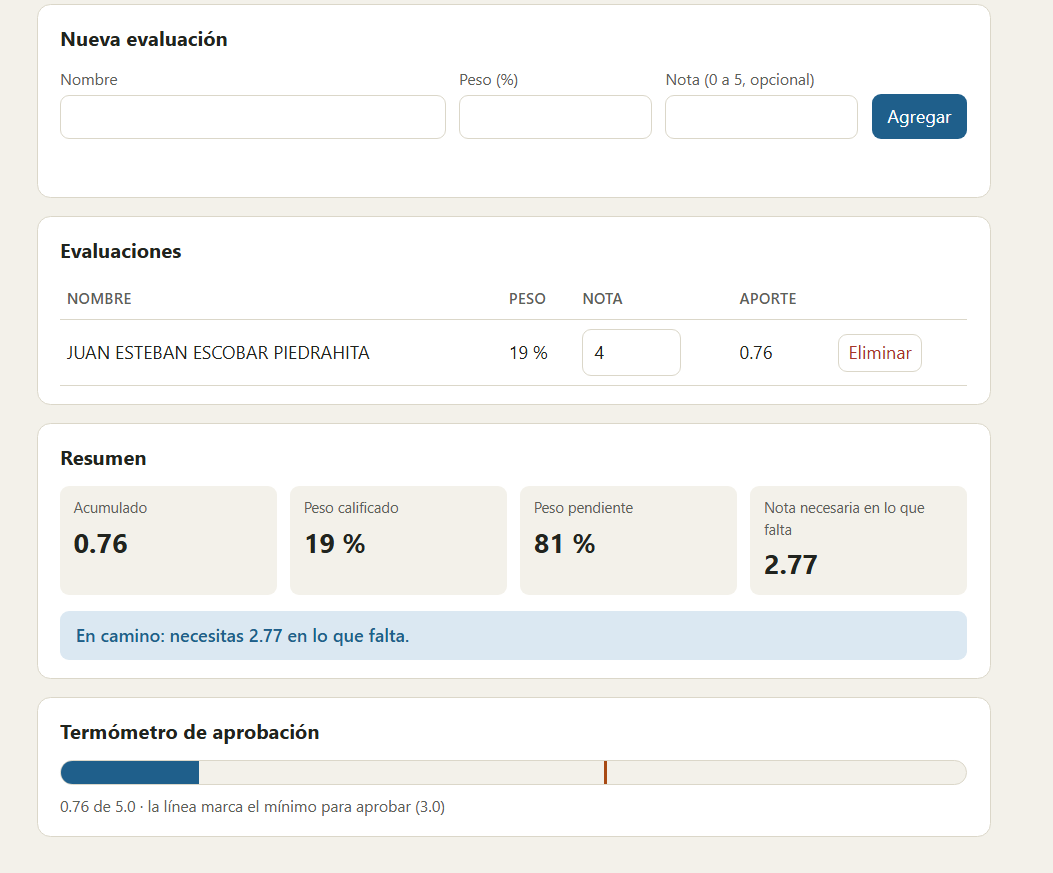
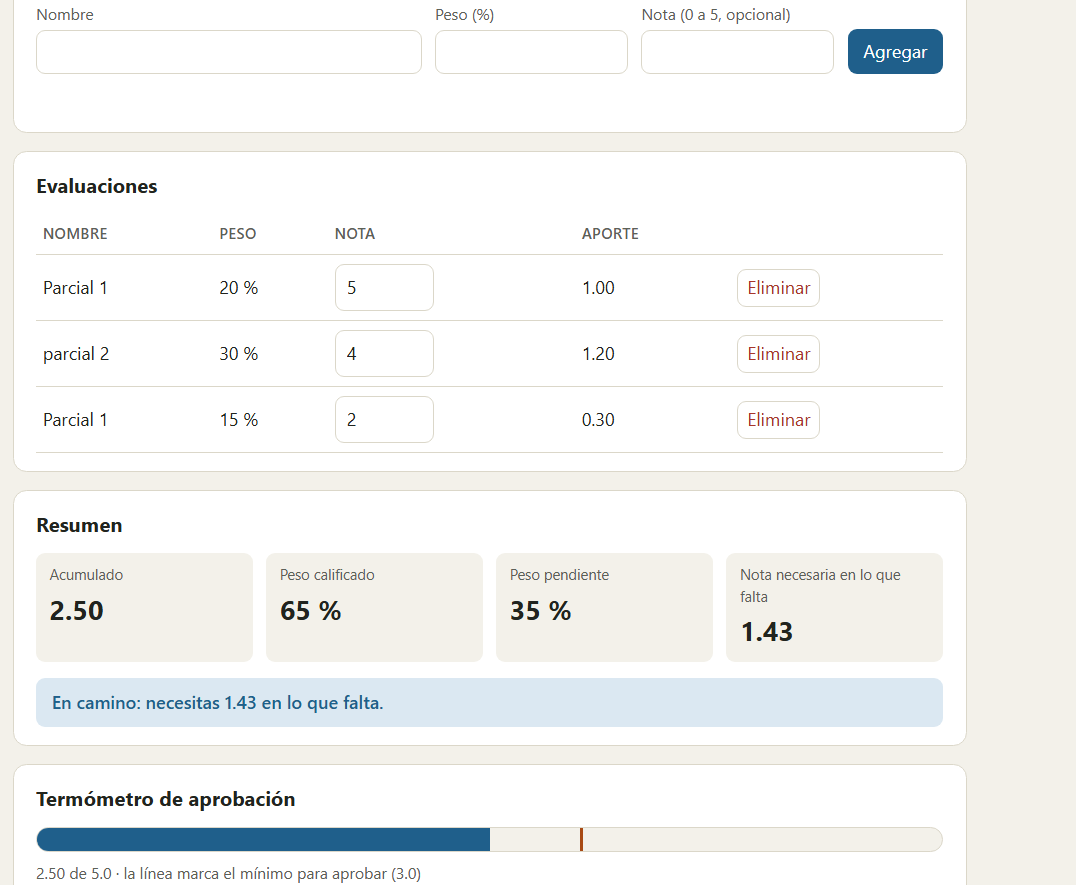
cambios en entrega

diff --git a/ENTREGA.md b/ENTREGA.md
@@ -65,7 +65,7 @@ Dibuja (a mano y pega una foto, o con texto/Mermaid) el recorrido completo desde
 
 ```
 
-**Captura de pantalla** de la app con las dos vistas (la tabla/resumen y el termómetro): ![alt text](image.png)
+**Captura de pantalla** de la app con las dos vistas (la tabla/resumen y el termómetro): !![alt text](image.png)
 
 ## 5. Tres cambios, tres lugares (Parte 5)
 
@@ -74,7 +74,7 @@ La idea: **cada cambio debía tocar solo las piezas que le corresponden**.
 
 | Cambio | Archivos que tocaste | ¿Era lo esperado? ¿Por qué? |
 |---|---|---|
-| 5A · Nombres únicos | | |
+| 5A · Nombres únicos |src/modelo.js | 5 ++++- | |
 | 5B · Segunda vista (termómetro) | | |
 | 5C · Otro almacén | | |
 
